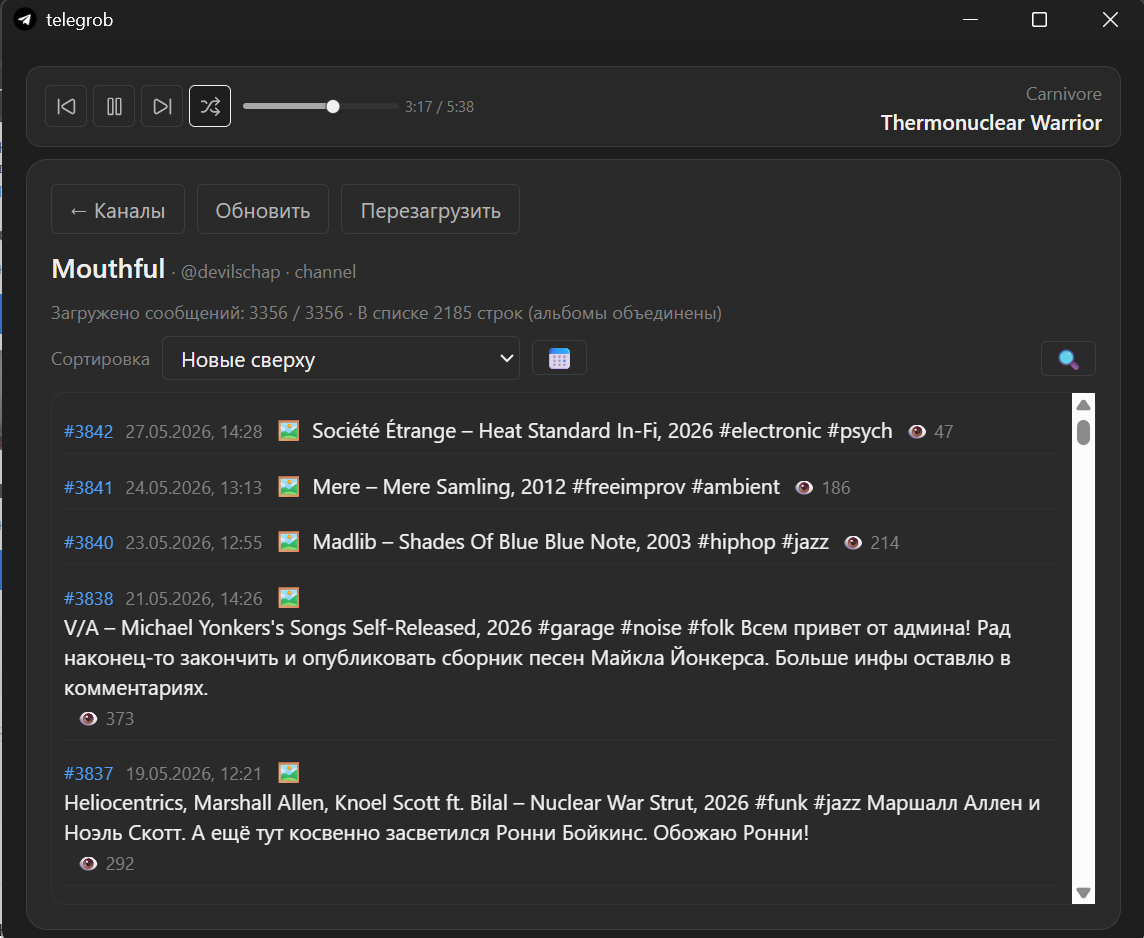
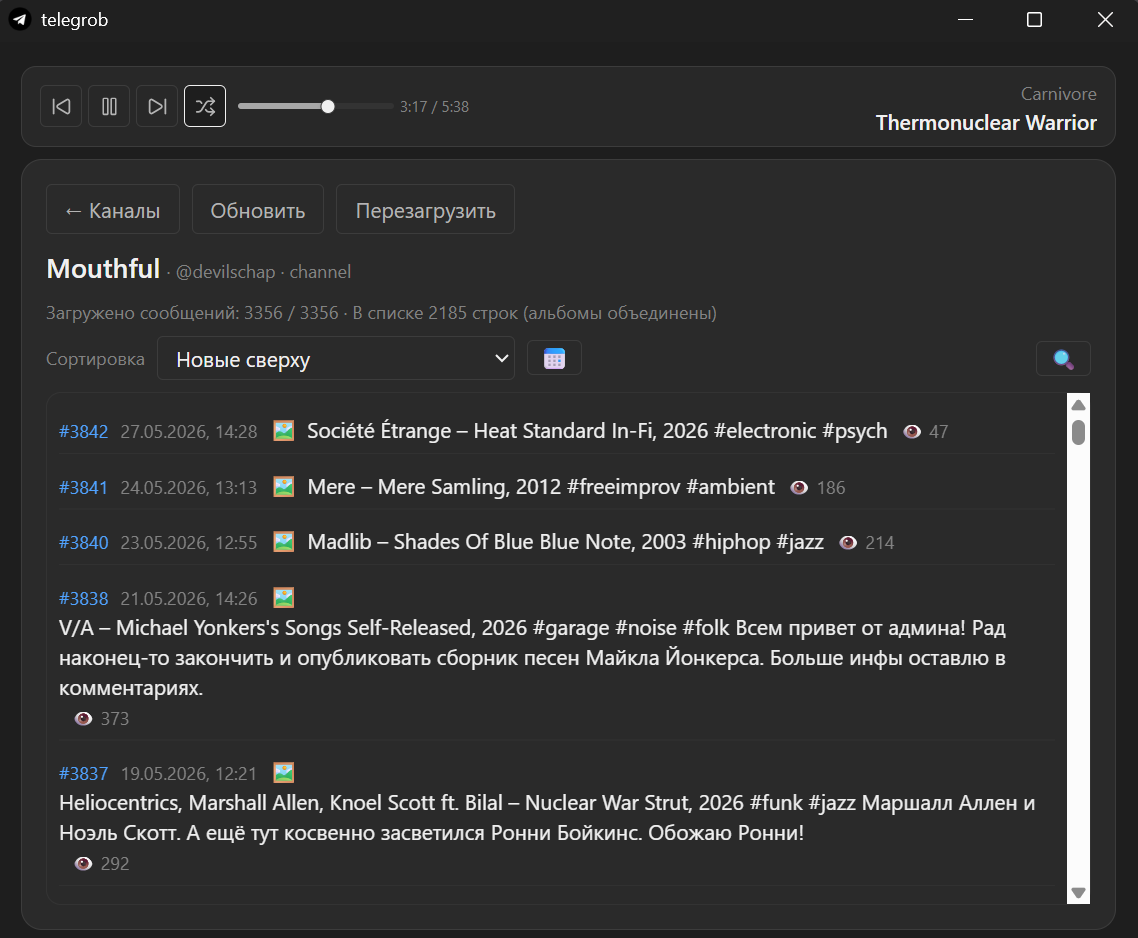
readme

diff --git a/README.md b/README.md
@@ -25,14 +25,73 @@
 
 ```
 src/
+├── App.tsx
+├── main.tsx
+├── globals.css
+├── window.css
+├── vite-env.d.ts
 ├── assets/
+├── shared/
 ├── components/
+│   ├── auth-session/
+│   │   ├── auth.tsx
+│   │   ├── index.tsx
+│   │   └── session.tsx
+│   ├── channel-view/
+│   │   ├── channel-music-progress-slider.tsx
+│   │   ├── channel-post-group.tsx
+│   │   ├── channel-post.tsx
+│   │   ├── channel-toolbar-filter.tsx
+│   │   ├── channel-toolbar-load.tsx
+│   │   ├── index.tsx
+│   │   └── posts-list.tsx
+│   ├── modals/
+│   │   ├── auth-session-modal.tsx
+│   │   ├── channel-catalog-filters-modal.tsx
+│   │   ├── channels-folder-modal.tsx
+│   │   ├── download-path-modal.tsx
+│   │   ├── index.tsx
+│   │   └── lastfm-auth-modal.tsx
+│   ├── ui/
+│   │   ├── button.tsx
+│   │   ├── calendar.tsx
+│   │   └── popover.tsx
+│   ├── channels.tsx
+│   ├── global-music-queue-bar.tsx
+│   ├── lastfm-music-bridge.tsx
+│   └── require-session.tsx
 ├── db/
+│   ├── CachedChannelsDB.ts
+│   ├── ChannelHistoryCheckpointDB.ts
+│   ├── ChannelPostsDB.ts
+│   ├── index.ts
+│   ├── migrate.ts
+│   ├── migrations/
+│   │   ├── index.ts
+│   │   └── types.ts
+│   ├── schema.ts
+│   └── utils.ts
 ├── hooks/
-├── lib/
+│   ├── use-auth.ts
+│   ├── use-channel-music-player.ts
+│   ├── use-channels-context-menu.ts
+│   ├── use-load-posts-data.ts
+│   ├── use-modal.ts
+│   └── use-session.ts
 ├── pages/
-├── store/
-└── App.tsx
+│   ├── channel-page.tsx
+│   └── home-page.tsx
+└── store/
+    ├── main/
+    │   ├── channel-view/
+    │   ├── index.ts
+    │   ├── lastfm-auth/
+    │   ├── music-player/
+    │   └── session/
+    └── modal/
+        ├── index.ts
+        └── keys.ts
+
 src-tauri/
 └── src/
     ├── lastfm/
